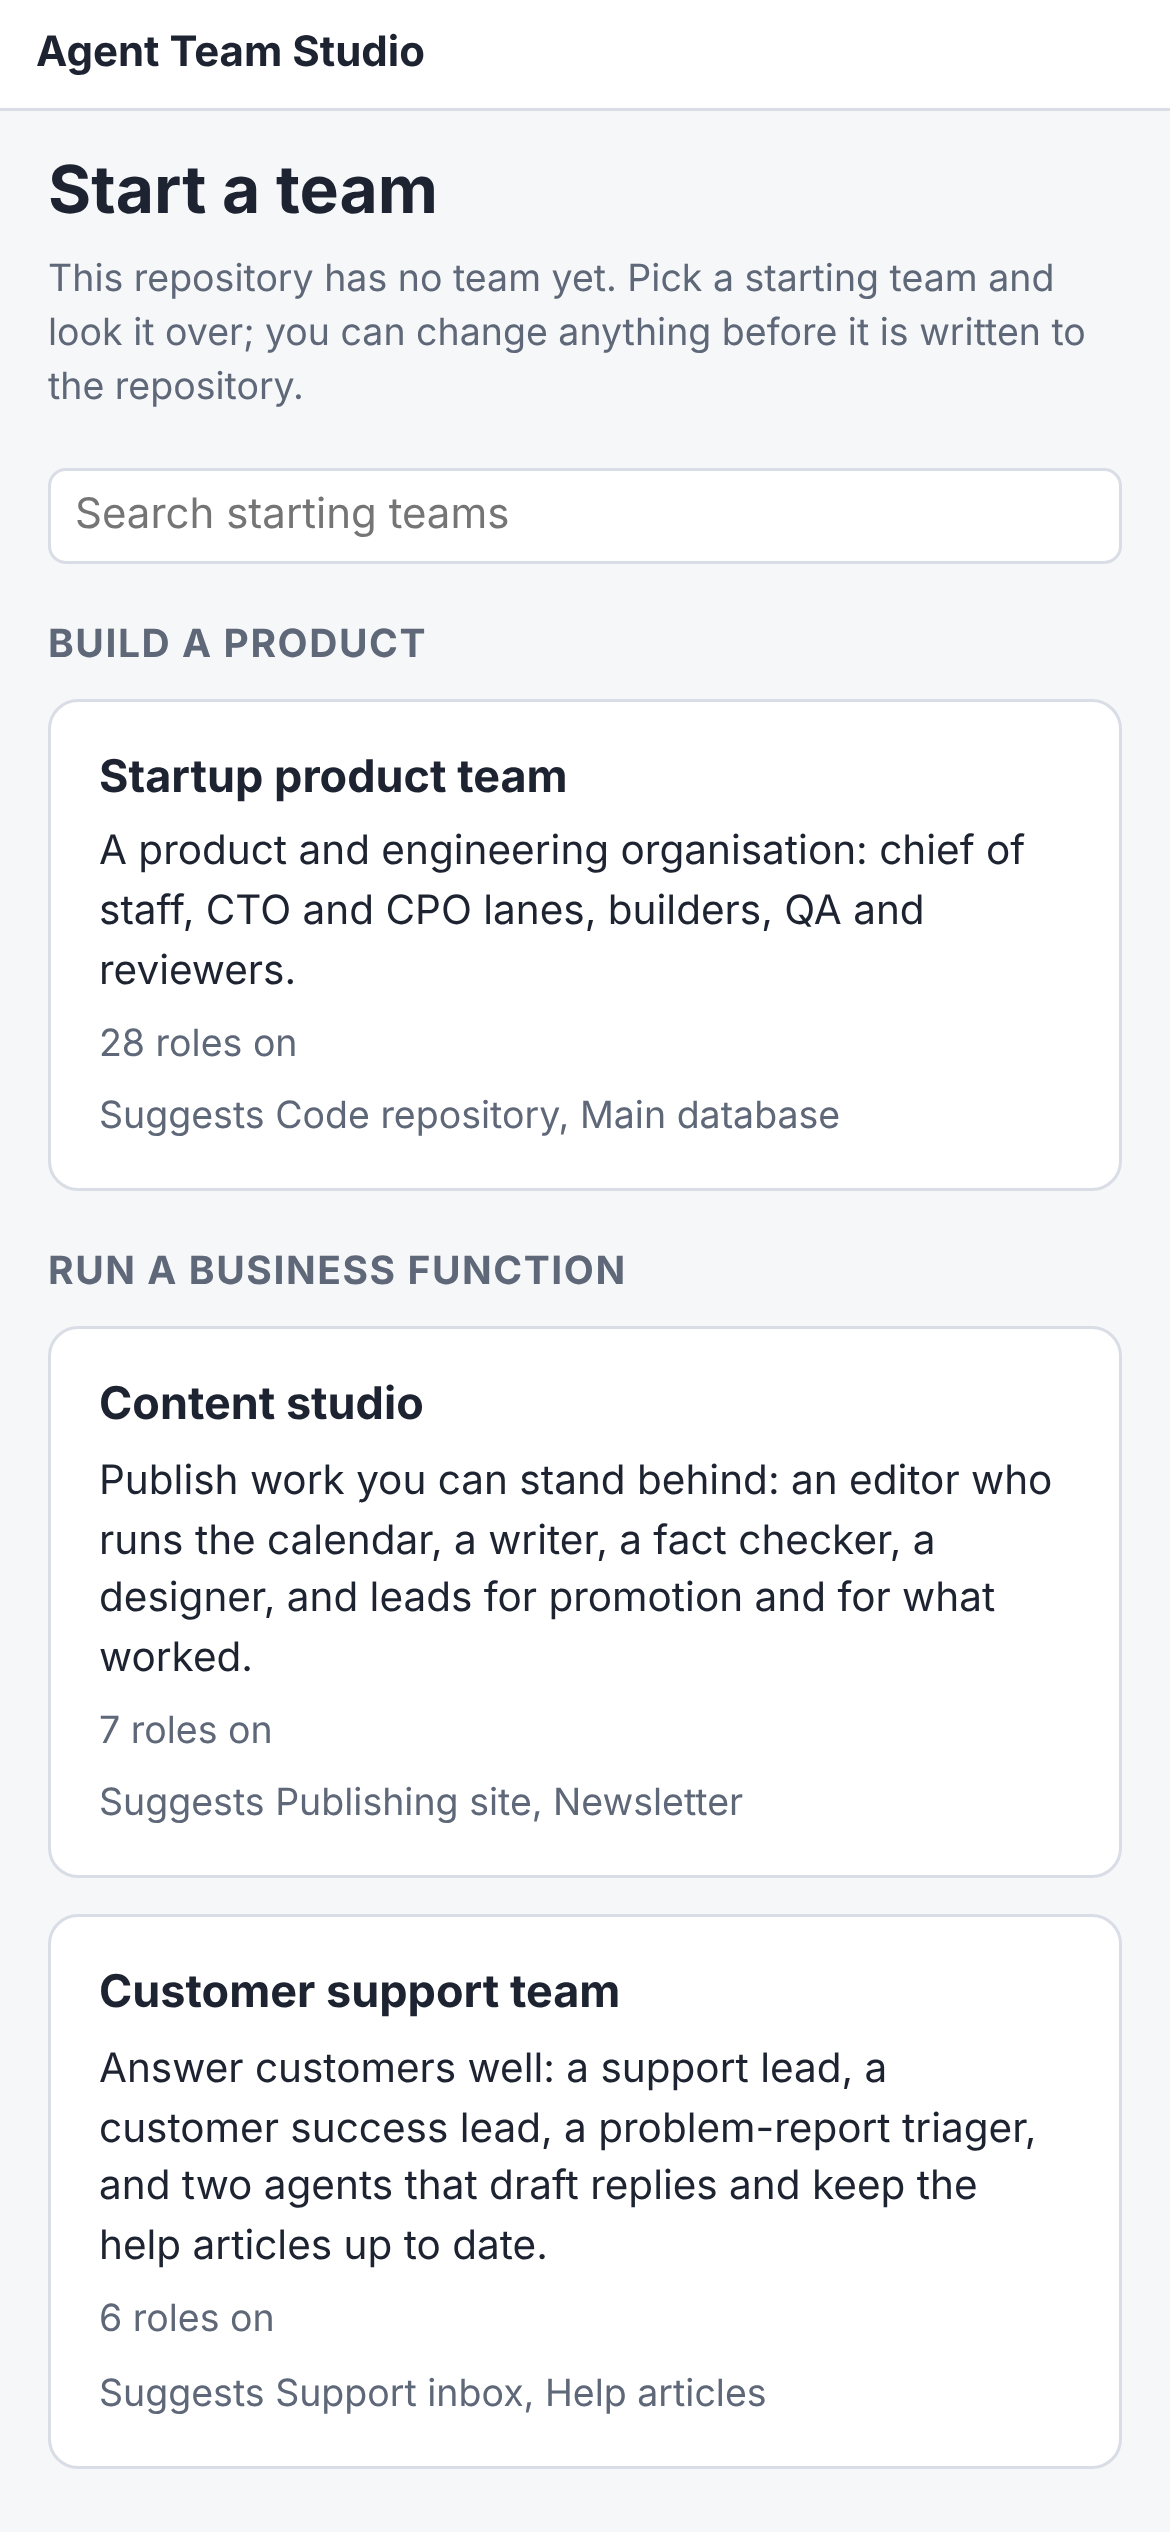
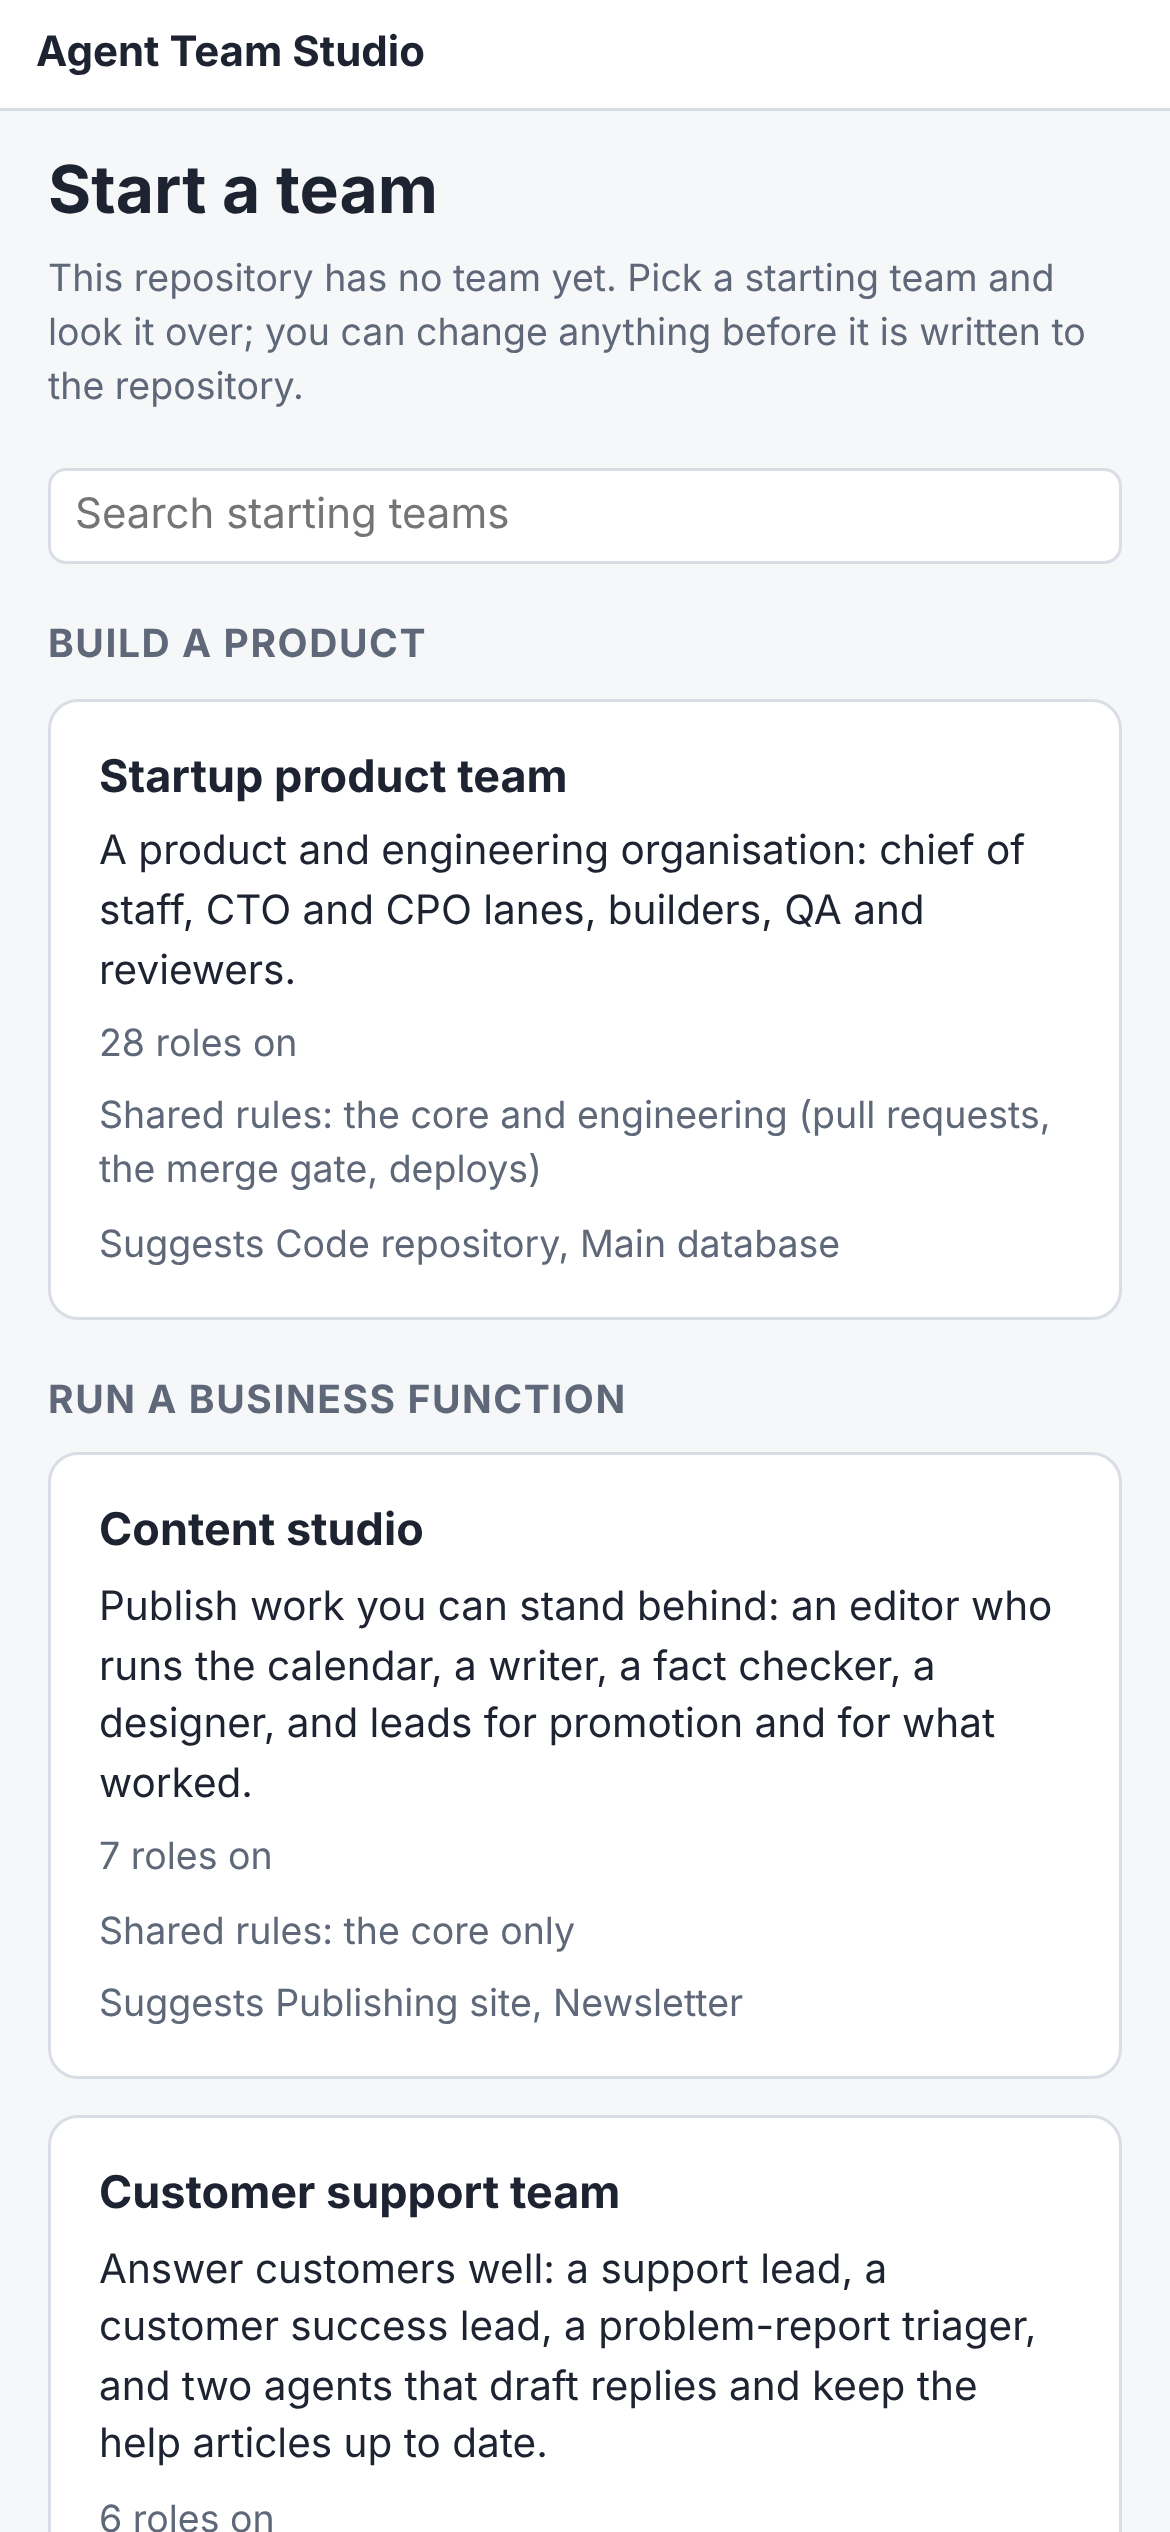
Studio: show a team's shared rules in the gallery, the preview and the team settings
Claude-Session: https://claude.ai/code/session_01CtT1rLNW9YJYwkYiXvhcVj

Changed region(s): [[0.0308, 0.4368, 0.8923, 1.0], [0.7692, 0.4368, 0.8923, 0.468], [0.0308, 0.9672, 0.0615, 0.9984]]

diff --git a/apps/studio/public/app.js b/apps/studio/public/app.js
@@ -1,9 +1,9 @@
 // Agent Team Studio, the editor. Plain ES modules, no build step. The team is one TeamSpec (packages/team-model),
 // edited here and checked live with the kit's own rules; the server only reads, previews and publishes.
-import { checkUpgrade, resolveSpec, setEnabled, setField, splitBrief, validate } from './team-model.mjs';
+import { checkUpgrade, resolveSpec, setEnabled, setField, splitBrief, teamPacks, validate } from './team-model.mjs';
 import { createChat } from './chat.js';
 import { createMeetings } from './meetings.js';
-import { createGallery, rolesLine } from './gallery.js';
+import { createGallery, rolesLine, rulesLine } from './gallery.js';
 import { exportPack, imported, isCustom, openNewAgent, switchOnRefusal } from './agents.js';
 import { createAgentEditor } from './agent-editor.js';
 import { QUIET_S, assess, impactHtml, reapplyFollowUp, inFlightList, planText, popoverHtml, publishable, reasonOf, recommendations, revert, rowOf, staleNote, stateWord, taskOf } from './safety.js';
@@ -557,11 +557,26 @@ function nowOnLive(r) {
     <p class="hint">${esc(staleNote(sf.newest))}</p></section>`;
 }
 
+/** The team's settings, read-only, when no role is picked (neutral protocols story criterion 5: no new choice yet). */
+function teamHtml() {
+  const v = spec.values ?? {};
+  const from = spec.options?.from ? /^(.+)@(.*)$/.exec(spec.options.from) : null;
+  const tpl = from && (S.templates ?? []).find((c) => c.id === from[1]);
+  const rows = [
+    ['Project', v.PROJECT_NAME], ['Owner', v.OWNER], ['Time zone', v.TIMEZONE], ['Kit', S.kitVersion],
+    ['Shared rules', rulesLine(teamPacks(spec.options)).replace(/^Shared rules: /, '')],
+    ...(from ? [['Started from', `${tpl?.title ?? from[1]}${from[2] ? ` (kit ${from[2]})` : ''}`]] : []),
+  ].filter(([, x]) => x);
+  return `<h2>Team</h2><dl class="team-facts">${rows.map(([k, x]) => `<dt>${esc(k)}</dt><dd>${esc(x)}</dd>`).join('')}</dl>
+    <p class="hint">Every team gets the core rules: one door, the owner's words passed on unchanged, one writer per area, the four message kinds and the board. A team's template or preset adds the rest.</p>
+    <p class="muted">Pick a role on the canvas or in the library.</p>`;
+}
+
 function renderInspector() {
   const el = $('#inspector');
   if (selectedSystem) return renderSystemInspector(el, ctx, selectedSystem);
   const r = selected && view.bySlug.get(selected);
-  if (!r) { el.innerHTML = '<p class="muted">Pick a role on the canvas or in the library.</p>'; return; }
+  if (!r) { el.innerHTML = teamHtml(); return; }
   const role = spec.roles[r.slug];
   const managers = view.team.filter((m) => m.slug !== r.slug && !under(r.slug, m.slug));
   const ownProject = role.brief !== undefined;
@@ -992,6 +1007,7 @@ function renderTemplateBar() {
       <dl>
         <div><dt>Roles that start on</dt><dd>${esc(byOrder(c.roles.filter((s) => !c.dormant.includes(s))).join(', '))}</dd></div>
         ${c.dormant.length ? `<div><dt>Dormant until you start them</dt><dd>${esc(byOrder(c.dormant).join(', '))}</dd></div>` : ''}
+        <div><dt>Shared rules</dt><dd>${esc(rulesLine(c.packs).replace(/^Shared rules: /, ''))}</dd></div>
         ${c.systems.length ? `<div><dt>Systems to connect</dt><dd>${esc(c.systems.map((s) => s.name).join(', '))}</dd></div>` : ''}
         ${meetingsLine ? `<div><dt>Starter meetings</dt><dd>${esc(meetingsLine)}</dd></div>` : ''}
       </dl></div>

diff --git a/apps/studio/public/gallery.js b/apps/studio/public/gallery.js
@@ -10,6 +10,15 @@ export function rolesLine(card) {
   return `${card.on} role${card.on === 1 ? '' : 's'} on${d ? ` · ${d} dormant` : ''}`;
 }
 
+/** What each pack of shared rules adds to the core, in plain words (neutral protocols story, criterion 5). */
+export const PACK_WORDS = { engineering: 'engineering (pull requests, the merge gate, deploys)' };
+
+/** "Shared rules: the core and engineering (…)", or "the core only" for a team with no packs. */
+export function rulesLine(packs) {
+  const list = (packs ?? []).map((p) => PACK_WORDS[p] ?? p);
+  return `Shared rules: ${list.length ? `the core and ${list.join(', ')}` : 'the core only'}`;
+}
+
 /** Whether a card matches the search box: its title, summary, group, suggested systems, starter meetings or roles. */
 export function matches(card, q) {
   const words = String(q ?? '').toLowerCase().split(/\s+/).filter(Boolean);
@@ -30,6 +39,7 @@ export function createGallery({ root, ctx }) {
       <strong>${esc(c.title)}</strong>
       <span class="g-summary">${esc(c.summary)}</span>
       <span class="muted">${esc(rolesLine(c))}</span>
+      <span class="muted">${esc(rulesLine(c.packs))}</span>
       ${systems.length ? `<span class="muted">Suggests ${esc(systems.join(', '))}</span>` : ''}
     </button></li>`;
   }

diff --git a/apps/studio/public/app.css b/apps/studio/public/app.css
@@ -526,3 +526,6 @@ body.previewing :is(#pages, .bar-actions, .edit-only, #new-agent), body.no-team 
   .tb-actions button { min-height: 44px; }
 }
 .chip.suggested { border-style: dashed; background: transparent; }
+.team-facts { display: grid; grid-template-columns: max-content 1fr; gap: 4px 12px; margin: 0 0 10px; font-size: 13.5px; }
+.team-facts dt { color: var(--muted); }
+.team-facts dd { margin: 0; }

diff --git a/CHANGELOG.md b/CHANGELOG.md
@@ -2,6 +2,7 @@
 
 ## Unreleased
 
+- **Studio: shared rules shown** (neutral protocols story, criterion 5). Each gallery card and the template preview say which shared rules the team gets ("the core only", or "the core and engineering (pull requests, the merge gate, deploys)"). With no role picked, the inspector shows the team's settings, read-only: project, owner, time zone, kit, shared rules and the template it started from. There is no new choice yet.
 - **Studio: template gallery** (issue #30, CPO story "team templates", criteria 5 to 10; D31 to D34). A repository with no team opens **Start a team**: the kit's templates grouped as "Build a product", "Run a business function" and "Maintain open source", with search, each card giving its purpose, how many roles start on and dormant, and the systems it suggests. Picking one shows it on the real canvas, read-only, with the roles that start on and dormant, the systems to connect and the starter meetings; nothing is written. **Use this template** asks for the project name, the owner's name and the time zone (the browser's by default), then opens the team as an unpublished draft. **Start almost empty** is a chief of staff only. Publishing writes exactly what `agent-team init --template` writes for the same answers, including the files init writes once. A template's suggested systems show dashed as "to connect" in the Systems view, with no settings, secrets or access until the owner connects one. A repository that has a team never shows the gallery. New Studio route: `POST /v1/team/from-template`; `GET /v1/team` answers `noTeam` with the template cards instead of an error.
 - **Studio: meetings and chat fixes** (QA notes on #107 and the M3 Pass A re-run). The attendee picker no longer offers roles already in a chosen lane. A duplicate meeting name from a hand-edited file shows in that meeting's own checks and on its row. The same-time warning comes once per pair of meetings and names every shared day, instead of once per day (`checkMeetings`). At 360px the chat header puts "Add a runner…" on its own line, so the run state is never cut off. Pause, resume and stop lines read "The run was paused · owner (reason)".
 - **Studio: meetings editor** (issue #30, CPO story "meeting definitions editor", criteria 1 to 10; mockup 03). A **Meetings** page next to Team and Chat lists the team's meetings and edits one at a time: title, schedule (days and time, or when an item gets a label), who runs it, attendees (roles or a whole lane, plus "everyone who worked since the last one"), format (written round, or discussion for 2 to 5 rounds), agenda, what happens to an attendee in the middle of a task, minutes to you, and a limit per meeting. "New meeting" offers four starters (stand-up, planning, release check, retro) with neutral agendas. The side column says what happens, in order, estimates the cost per meeting and per month from each role's model tier (`/model-prices.json`, prices as of their date) and warns when the limit is below it, and runs the kit's `checkMeetings`. Saving writes to the draft; Publish writes `.agent-team/meetings.json` with the rest of the team. When the team's time zone is not a real zone, the page offers the browser's. On a phone the page is a read-only list.
